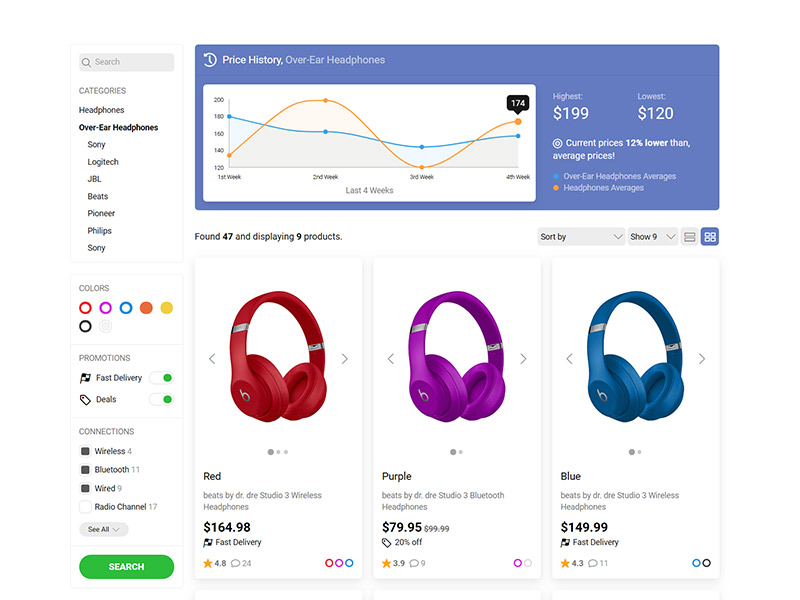
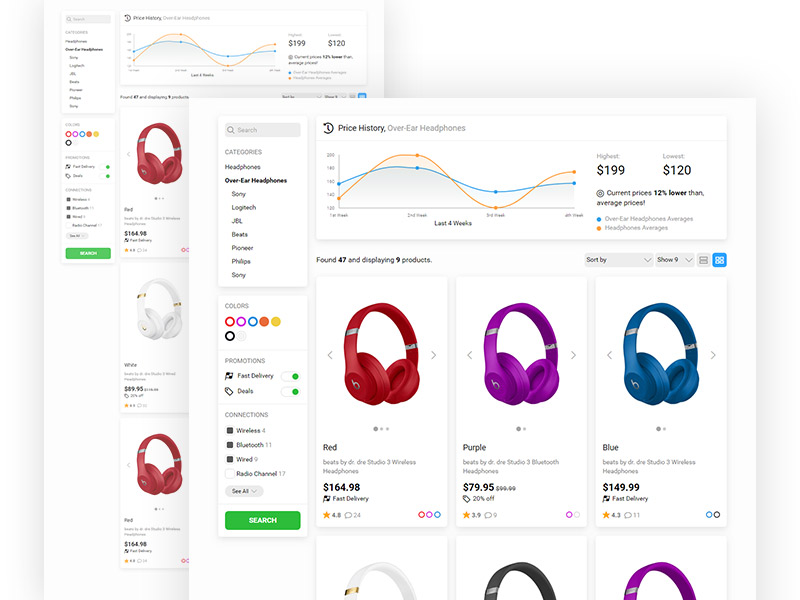
Documentation updates.

diff --git a/docs/product-listing.html b/docs/product-listing.html
@@ -69,6 +69,7 @@
 
     <!-- custom CSS -->
     <style>
+        body { background: #fdfdfd; }
         .static-218 { width: 218px; }
     </style>
 
@@ -99,7 +100,7 @@
                 <div class="static-218 padding-10 hidden-md">
                     <div class="add-mobile-menu-right">
 
-                        <div class="portlet padding-15 rounded bordered">
+                        <div class="portlet padding-15 rounded shadow-lg">
                             <div data-src="json/headphones.json" data-val="name" class="autocomplete text text-icon text-icon-md text-icon-left rounded no-bordered theme-gray ui-light ease-form">
                                 <i class="icon text-icon-left icon-sm icon-search ease-layout"></i>
                                 <input type="text" placeholder="Search" autocomplete="off">
@@ -125,7 +126,7 @@
                             </ul>
                         </div>
 
-                        <div class="portlet rounded bordered">
+                        <div class="portlet rounded shadow-lg">
 
                             <div class="padding-15 md-align-center bottom-bordered">
                                 <h5 class="margin-10-b x-dark">COLORS</h5>
@@ -163,7 +164,7 @@
                                 <span class="clearfix hidden-md"></span>
 
                                 <label class="custom inline-block">
-                                    <span class="check-custom no-bordered circle ease-form" style="background: #3b3d3b;">
+                                    <span class="check-custom no-bordered circle ease-form" style="background: #15181d;">
                                         <input type="checkbox" checked>
                                         <i class="ease-form-custom bg-white circle"></i>
                                     </span>
@@ -235,7 +236,7 @@
                             </div>
 
                             <div class="padding-15">
-                                <button type="submit" class="btn btn-lg block circle theme-green ui-dark ease-btn"><b>SEARCH</b></button>
+                                <button type="submit" class="btn btn-lg block rounded theme-green ui-dark ease-btn"><b>SEARCH</b></button>
                             </div>
 
                         </div>
@@ -251,15 +252,15 @@
                                     <h4>
                                         <i class="icon icon-lg icon-history margin-5-r"></i>
                                         <span class="inline-block">
-                                            Price History, <span class="x-light-ui">Over-Ear Headphones</span>
+                                            Price History, <span class="dark">Over-Ear Headphones</span>
                                         </span>
                                     </h4>
                                 </div>
                                 <div class="col-8 sm-responsive">
                                     <div class="line-charts ease-line-charts" data-x="1st Week,2nd Week,3rd Week,4th Week">
                                         <ul class="line" data-type="curved filled">
+                                            <li data-y="156"></li>
                                             <li data-y="180"></li>
-                                            <li data-y="162"></li>
                                             <li data-y="144"></li>
                                             <li data-y="157"></li>
                                         </ul>
@@ -333,7 +334,7 @@
                                 <a class="full-height padding-15 no-padding-t portlet rounded shadow-lg hover-shadow hover-up ease-layout" href="#">
                                     <span class="photo-slider margin-20-b">
                                         <i class="slider-loader icon icon-xl icon-loader"></i>
-                                        <img src="img/product_blank.gif" data-src="img/product_01.jpg,img/product_02.jpg,img/product_03.jpg" alt="">
+                                        <img src="img/product_blank.gif" data-src="img/product_01.png,img/product_02.png,img/product_03.png" alt="">
                                         <button title="Prev" class="slide-left rounded ease-layout">
                                             <i class="icon icon-md icon-angle-left"></i>
                                         </button>
@@ -366,7 +367,7 @@
                                 <a class="full-height padding-15 no-padding-t portlet rounded shadow-lg hover-shadow hover-up ease-layout" href="#">
                                     <span class="photo-slider margin-20-b">
                                         <i class="slider-loader icon icon-xl icon-loader"></i>
-                                        <img src="img/product_blank.gif" data-src="img/product_02.jpg,img/product_04.jpg" alt="">
+                                        <img src="img/product_blank.gif" data-src="img/product_02.png,img/product_04.png" alt="">
                                         <button title="Prev" class="slide-left rounded ease-layout">
                                             <i class="icon icon-md icon-angle-left"></i>
                                         </button>
@@ -398,7 +399,7 @@
                                 <a class="full-height padding-15 no-padding-t portlet rounded shadow-lg hover-shadow hover-up ease-layout" href="#">
                                     <span class="photo-slider margin-20-b">
                                         <i class="slider-loader icon icon-xl icon-loader"></i>
-                                        <img src="img/product_blank.gif" data-src="img/product_03.jpg,img/product_05.jpg" alt="">
+                                        <img src="img/product_blank.gif" data-src="img/product_03.png,img/product_05.png" alt="">
                                         <button title="Prev" class="slide-left rounded ease-layout">
                                             <i class="icon icon-md icon-angle-left"></i>
                                         </button>
@@ -430,7 +431,7 @@
                                 <a class="full-height padding-15 no-padding-t portlet rounded shadow-lg hover-shadow hover-up ease-layout" href="#">
                                     <span class="photo-slider margin-20-b">
                                         <i class="slider-loader icon icon-xl icon-loader"></i>
-                                        <img src="img/product_blank.gif" data-src="img/product_04.jpg" alt="">
+                                        <img src="img/product_blank.gif" data-src="img/product_04.png" alt="">
                                         <button title="Prev" class="slide-left rounded ease-layout">
                                             <i class="icon icon-md icon-angle-left"></i>
                                         </button>
@@ -461,7 +462,7 @@
                                 <a class="full-height padding-15 no-padding-t portlet rounded shadow-lg hover-shadow hover-up ease-layout" href="#">
                                     <span class="photo-slider margin-20-b">
                                         <i class="slider-loader icon icon-xl icon-loader"></i>
-                                        <img src="img/product_blank.gif" data-src="img/product_05.jpg" alt="">
+                                        <img src="img/product_blank.gif" data-src="img/product_05.png" alt="">
                                         <button title="Prev" class="slide-left rounded ease-layout">
                                             <i class="icon icon-md icon-angle-left"></i>
                                         </button>
@@ -492,7 +493,7 @@
                                 <a class="full-height padding-15 no-padding-t portlet rounded shadow-lg hover-shadow hover-up ease-layout" href="#">
                                     <span class="photo-slider margin-20-b">
                                         <i class="slider-loader icon icon-xl icon-loader"></i>
-                                        <img src="img/product_blank.gif" data-src="img/product_02.jpg,img/product_04.jpg" alt="">
+                                        <img src="img/product_blank.gif" data-src="img/product_02.png,img/product_04.png" alt="">
                                         <button title="Prev" class="slide-left rounded ease-layout">
                                             <i class="icon icon-md icon-angle-left"></i>
                                         </button>
@@ -524,7 +525,7 @@
                                 <a class="full-height padding-15 no-padding-t portlet rounded shadow-lg hover-shadow hover-up ease-layout" href="#">
                                     <span class="photo-slider margin-20-b">
                                         <i class="slider-loader icon icon-xl icon-loader"></i>
-                                        <img src="img/product_blank.gif" data-src="img/product_01.jpg,img/product_02.jpg,img/product_03.jpg" alt="">
+                                        <img src="img/product_blank.gif" data-src="img/product_01.png,img/product_02.png,img/product_03.png" alt="">
                                         <button title="Prev" class="slide-left rounded ease-layout">
                                             <i class="icon icon-md icon-angle-left"></i>
                                         </button>
@@ -557,7 +558,7 @@
                                 <a class="full-height padding-15 no-padding-t portlet rounded shadow-lg hover-shadow hover-up ease-layout" href="#">
                                     <span class="photo-slider margin-20-b">
                                         <i class="slider-loader icon icon-xl icon-loader"></i>
-                                        <img src="img/product_blank.gif" data-src="img/product_03.jpg,img/product_05.jpg" alt="">
+                                        <img src="img/product_blank.gif" data-src="img/product_03.png,img/product_05.png" alt="">
                                         <button title="Prev" class="slide-left rounded ease-layout">
                                             <i class="icon icon-md icon-angle-left"></i>
                                         </button>
@@ -589,7 +590,7 @@
                                 <a class="full-height padding-15 no-padding-t portlet rounded shadow-lg hover-shadow hover-up ease-layout" href="#">
                                     <span class="photo-slider margin-20-b">
                                         <i class="slider-loader icon icon-xl icon-loader"></i>
-                                        <img src="img/product_blank.gif" data-src="img/product_01.jpg,img/product_02.jpg,img/product_03.jpg" alt="">
+                                        <img src="img/product_blank.gif" data-src="img/product_01.png,img/product_02.png,img/product_03.png" alt="">
                                         <button title="Prev" class="slide-left rounded ease-layout">
                                             <i class="icon icon-md icon-angle-left"></i>
                                         </button>

diff --git a/docs/index.html b/docs/index.html
@@ -223,7 +223,10 @@
                         </div>
                         <div class="col-lg-3 col-4 col-md-6 sm-responsive">
                             <a class="portlet padding-5 rounded shadow-lg hover-shadow hover-up ease-layout" href="product-listing.html">
-                                <img class="img-responsive margin-10-b" src="img/layout-product-listing.jpg" alt="Product Listing">
+                                <picture>
+                                    <source srcset="img/layout-product-listing-dark.jpg" media="(prefers-color-scheme: dark)">
+                                    <img class="img-responsive margin-10-b" src="img/layout-product-listing.jpg" alt="Product Listing">
+                                </picture>
                                 Product Listing
                             </a>
                         </div>
